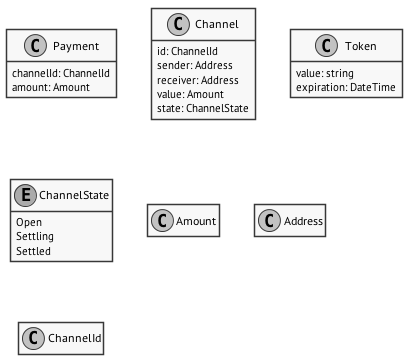
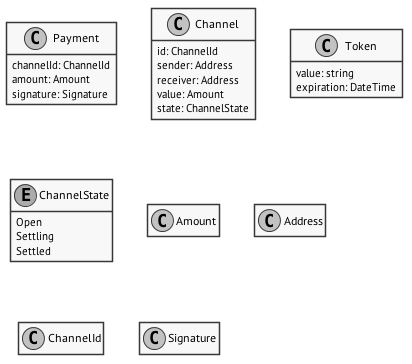
Add Signature, and signing operation while in ChannelManagerˆ

Changed region(s): [[0.0, 0.0604, 0.2913, 0.3022], [0.3204, 0.8764, 0.5534, 0.9973]]

diff --git a/docs/architecture.md b/docs/architecture.md
@@ -39,6 +39,9 @@ Top-Level Interface for the library user.
 
 Manages the state, both off-chain and on-chain.
 
+- constructor
+  - instantiate storage,
+  - accept web3 provider for signing
 - closeChannel
   - eventEmitter.emit('startClosing')
   - // push tx to the blockchain
@@ -46,9 +49,10 @@ Manages the state, both off-chain and on-chain.
 - nextPayment(channelId, amount)
   - // See if spentAmount ≤ channelValue
   - spentAmount = channel.spenAmount + amount
-    - // Tracks nonces
-    - **// TBD Must respect concurrency HOLE - FIGURE OUT THE MECHANISM IN PLACE**
-    - **// Serialize calls somehow**
+  - sign the payment
+  - // Tracks nonces
+  - **// TBD Must respect concurrency HOLE - FIGURE OUT THE MECHANISM IN PLACE**
+  - **// Serialize calls somehow**
 - channels
 - channelById
 - requireOpenChannel(sender, receiver, channelValue)
